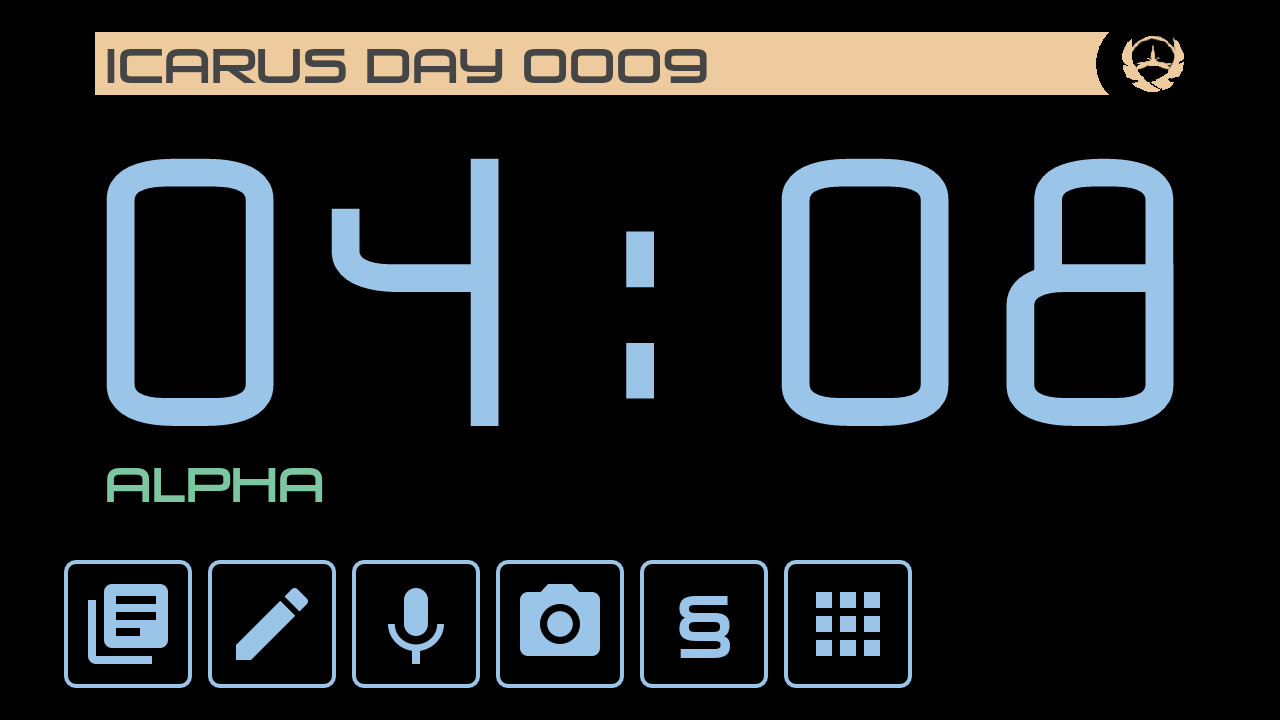
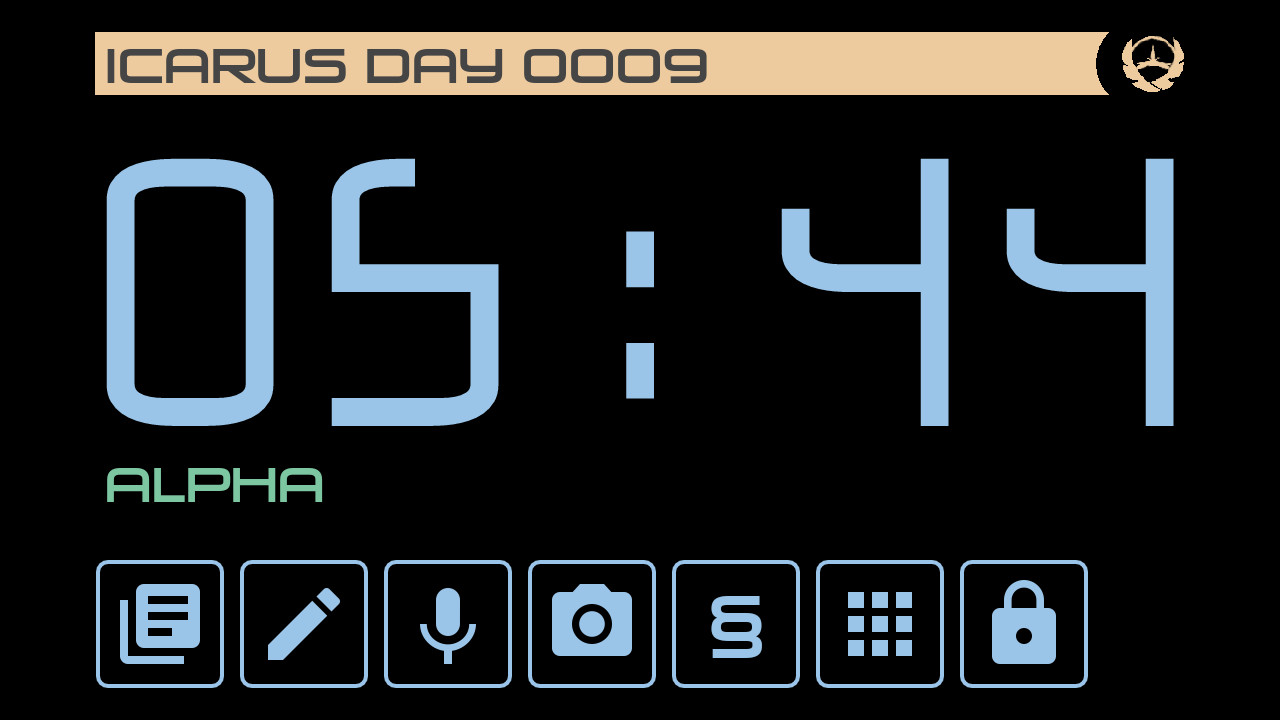
extended description

diff --git a/README.md b/README.md
@@ -38,7 +38,11 @@ You can enter a time offset (positive or negative) in case the game starts early
 
 ## Security
 
+![Screenshot of the launcher](locked.jpg)
+
 The Launcher automatically locks itself once the screen is turned off. You can lock it manually by pressing the lock icon on the home screen or long-pressing the back/lock icon on the other screens.
+
+![Screenshot of the launcher](password.jpg)
 
 When the launcher is locked, you need to unlock it before you can start using it again. To do that, press the UNLOCK button below the clock. You will then be directed to the password screen, where you can enter your password. **Entering the password for the first time will set it for the game, so make sure to enter your character password from your character description.**
 
@@ -48,11 +52,17 @@ The core of the launcher is a personal log for the events you encounter during t
 
 Log entries can not be edited once they are saved. This is partly because it saved me the time to build that functionality, but mostly so you can't easily delete incriminating information. You can delete log entries. However, nothing is truly lost in a world of advanced tech, so I decided to at least show that a log entry was originally there. It is play to lose after all, and having a bunch of deleted log entries from a suspicious time, is a great way to get us into trouble. And who knows, maybe there are even some ways to partially restore them? I explain this in game by every device being connected to a huge network, where it might take days to purge an entry from all running nodes and backups.
 
+![Screenshot of the launcher](entry_removed.jpg)
+
 You can create log entries by typing them (or using the very funny speech-to-text function), by recording audio, or by taking a picture with your device camera. All methods for creating a log entry are available from the launcher or from the journal listing the log entries.
+
+![Screenshot of the launcher](voice_recording.jpg)
 
 To start an audio recording, simply tap the microphone button. A red indicator will be shown when the recorder is running. Tapping the button again will stop and save the recording. Recording audio even works when the screen is off or the launcher is locked, so you can easily record in secret. **Recording prevents your device from going to sleep, so it can be a drain on the battery.**
 
 ## Regulations
+
+![Screenshot of the launcher](regulations.jpg)
 
 On Icarus, there are a lot of regulations and you might not have learned every detail of it. That's why you can look them up in the regulations section. After installation, the app does not have any regulations to show, but you might want to put at least the company bylaw there. To create a regulation that will be shown in the app, follow this procedure:
 
@@ -77,6 +87,8 @@ Every employee is entitled to have personal free time every shift. Beside workin
 Since I am in the mining team, I already created custom steps for the miners. If you are a miner, please just use those. I posted them in the mining Facebook group. If you are not on Facebook, contact me (below) and I'll send them to you personally. I don't want to put them on display for anyone to see without the permission of the Icarus team.
 
 ## Apps
+
+![Screenshot of the launcher](apps.jpg)
 
 Of course you might want to use your device in any way I can't really forsee during the game, so the launcher of course also allows you to access your apps as usual. Apps will be shown in a simple list, without Icons. That is because most of them don't look very sci-fi.
 
